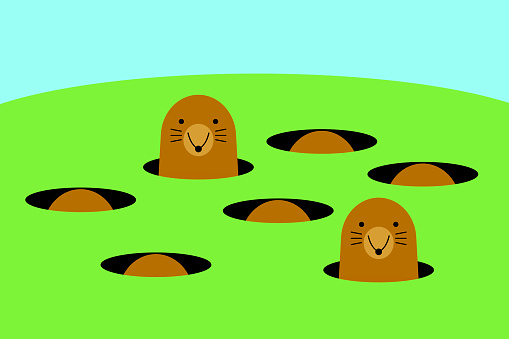
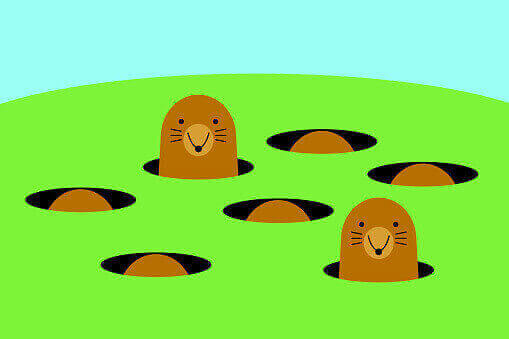
minified all image, improve the wom game responsiveness

diff --git a/src/components/WomGame.tsx b/src/components/WomGame.tsx
@@ -130,8 +130,8 @@ export default function WomGame() {
         <DialogTitle>Game will be start in</DialogTitle>
         <Typography variant='h3' sx={{ textAlign: 'center'}}>{gameStartCountdown}</Typography>
       </Dialog>
-      <Stack direction="row" spacing={5}>
-        <ImageList sx={{ width: 600, height: 600 }} cols={3}>
+      <Stack direction={{ sm: 'column', md: 'row' }} gap={3}>
+        <ImageList sx={{ width: {md: 100, sm: '100%'}, height: {md: 600, sm: '100%'} }} cols={3}>
           {itemData.map((item, idx) => (
             <ImageListItem key={idx}>
               <img

diff --git a/src/components/Profile.tsx b/src/components/Profile.tsx
@@ -8,7 +8,7 @@ const Profile: React.FC<{ playerName?: string; roomId?: string }> = ({
   roomId,
 }) => {
   const handleShareButton = async () => {
-    await navigator.clipboard.writeText(`https://go-games.surge.sh/?gameId=${roomId}`)
+    await navigator.clipboard.writeText(`https://go-games.surge.sh/wom?gameId=${roomId}`)
     toast.success(`Game room is copied to the clipboard`, {
       position: 'top-center',
       autoClose: 2000,

diff --git a/src/pages/Home.tsx b/src/pages/Home.tsx
@@ -31,7 +31,7 @@ const Home = () => {
   }
 
   return (
-    <Stack direction="row" spacing={2}>
+    <Stack direction={{ sm: 'column', md: 'row' }} gap={4}>
       <Card sx={{ maxWidth: 345 }}>
         <CardMedia component="img" alt="Wom" height="140" image={WomIcon} />
         <CardContent>
